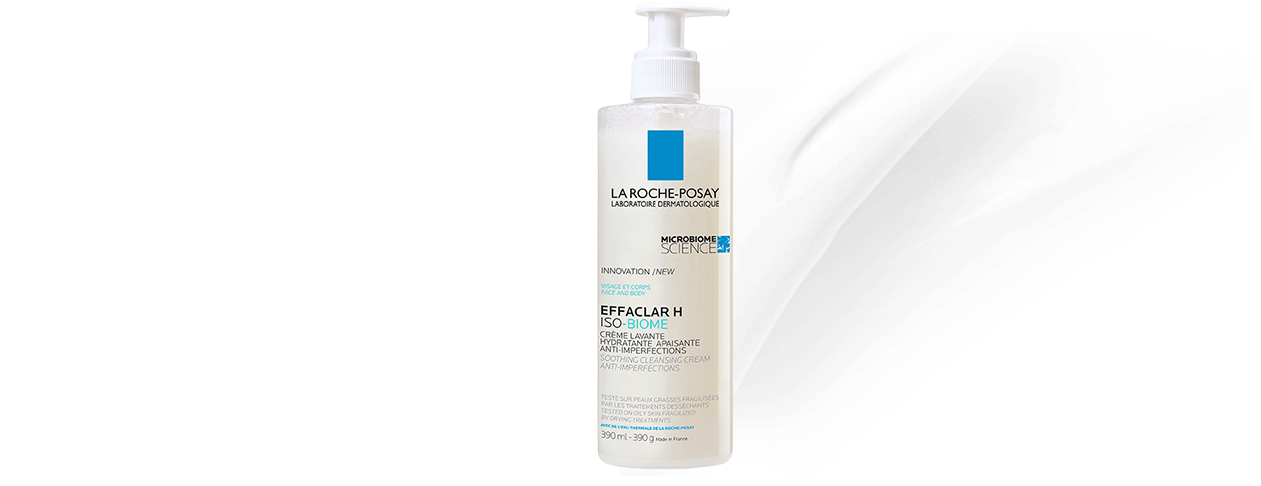
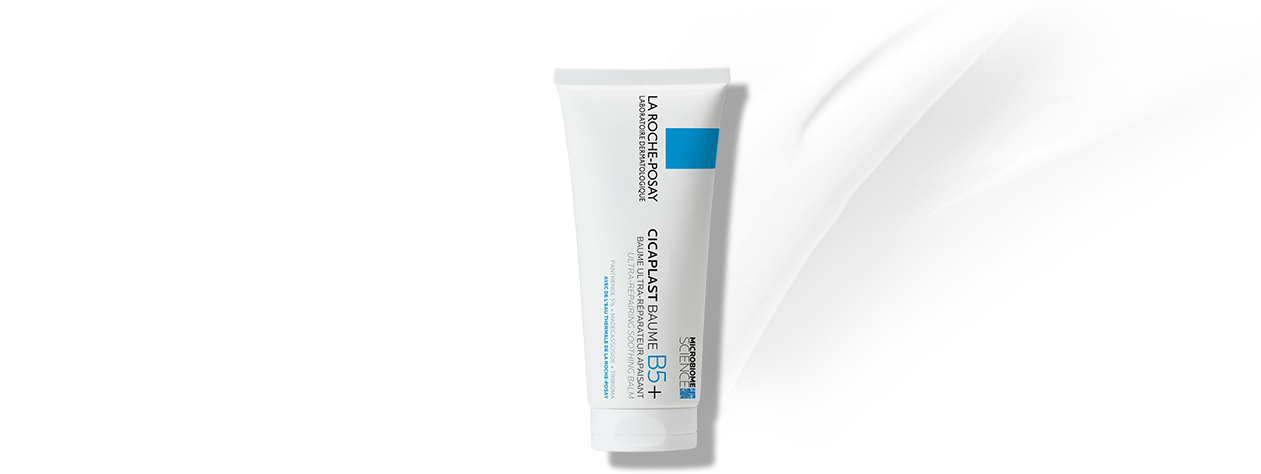
Modify kv and description section

Changed region(s): [[0.433, 0.0, 0.6186, 1.0]]

diff --git a/src/index.html b/src/index.html
@@ -25,51 +25,48 @@
             </div>
           </div>
           <div class="es-kv__left">
-            <p>Kojący <br> Krem myjący</p>
+            <p class="es-kv__title">Nowa formuła</p>
+            <p>
+              Skuteczna<br>regeneracja<br>skóry od 1 dnia<sup>1</sup>
+              <br><span>Silnie regenerujący<br>balsam kojący</span>
+            </p>
           </div>
         </div>
       </div>
 
       <div class="es-desc">
-        <h3 class="es-desc__title"><span>effaclar h iso-biome</span> krem myjący</h3>
-        <p class="es-desc__subtitle">Odpowiedni dla skóry wrażliwej, skłonnej do trądziku,<br>
-          uwrażliwionej wysuszającymi kuracjami przeciwtrądzikowymi.
+        <h3 class="es-desc__title"><span>cicaplast</span> Baume B5+</h3>
+        <p class="es-desc__subtitle">Do ciała i twarzy niemowląt, dzieci i dorosłych.
         </p>
         <div class="es-desc__wrapper">
           <div class="es-desc__single">
             <img src="./images/description-item.png" alt="">
             <p class="es-desc__item">
-              Natychmiastowo<br> i&nbsp;intensywnie koi
+              Przyspiesza<br> i&nbsp;wspomaga proces<br> regeneracji naskórka
             </p>
           </div>
           <div class="es-desc__single">
             <img src="./images/description-item.png" alt="">
             <p class="es-desc__item">
-              Nawilża skórę<br> przez 48h<sup>1</sup>
+              Natychmiastowo<br>koi
             </p>
           </div>
           <div class="es-desc__single">
             <img src="./images/description-item.png" alt="">
             <p class="es-desc__item">
-              Chroni skórę przed<br> wysuszającym efektem<br> oczyszczania
+              komfortowe<br>uczucie nawilżenia<br>i mniej podrażnień
             </p>
           </div>
           <div class="es-desc__single">
             <img src="./images/description-item.png" alt="">
             <p class="es-desc__item">
-              Odpowiedni do<br> oczyszczania skóry <br>twarzy i ciała
+              Zmniejsza<br>widoczność<br>zmian skórnych
             </p>
           </div>
           <div class="es-desc__single">
             <img src="./images/description-item.png" alt="">
             <p class="es-desc__item">
-              Dzień po dniu<br> redukuje<br> niedoskonałości
-            </p>
-          </div>
-          <div class="es-desc__single">
-            <img src="./images/description-item.png" alt="">
-            <p class="es-desc__item">
-              bez alkoholu etylowego
+              Działa już od<br>pierwszej<br>aplikacji
             </p>
           </div>
         </div>

diff --git a/src/sass/style.scss b/src/sass/style.scss
@@ -85,8 +85,28 @@ body {
       text-align: center;
       text-transform: uppercase;
       font-size: 22px;
-      font-weight: 500;
-      font-family: $medium;
+      font-weight: 200;
+      font-family: $regular;
+      opacity: 0;
+      animation: slideright 0.8s ease forwards;
+      animation-delay: 0.9s;
+
+      & span {
+        font-size: 18px;
+        color: #009de5;
+      }
+    }
+    &__title {
+      margin: 0 auto;
+      padding: 5px 10px;
+      background-color: #009de5;
+      width: fit-content;
+      color: #fff;
+      text-align: center;
+      text-transform: uppercase;
+      font-size: 14px;
+      font-weight: 200;
+      font-family: $regular;
       opacity: 0;
       animation: slideright 0.8s ease forwards;
       animation-delay: 0.9s;
@@ -114,6 +134,14 @@ body {
         font-weight: 500;
       }
     }
+    &__subtitle {
+      @include text;
+      font-size: 14px;
+      font-family: $regular;
+      font-weight: 200;
+      text-transform: none;
+      padding-bottom: 20px;
+    }
     &__wrapper {
       width: 100%;
       display: flex;
@@ -121,7 +149,7 @@ body {
       justify-content: space-around;
     }
     &__single {
-      width: 246px;
+      width: 145px;
       margin: 20px 0;
       transition: all 0.3s;
       & p {
@@ -463,7 +491,7 @@ body {
 
 }
 
-@media screen and (min-width: 655px) {
+@media screen and (min-width: 713px) {
   .es-kv {
     &__container {
       display: flex;
@@ -480,6 +508,10 @@ body {
       & p {
         text-align: right;
       }
+    }
+    &__title {
+      margin-right: 0;
+      margin-left: auto;
     }
   }
   .es-use {
